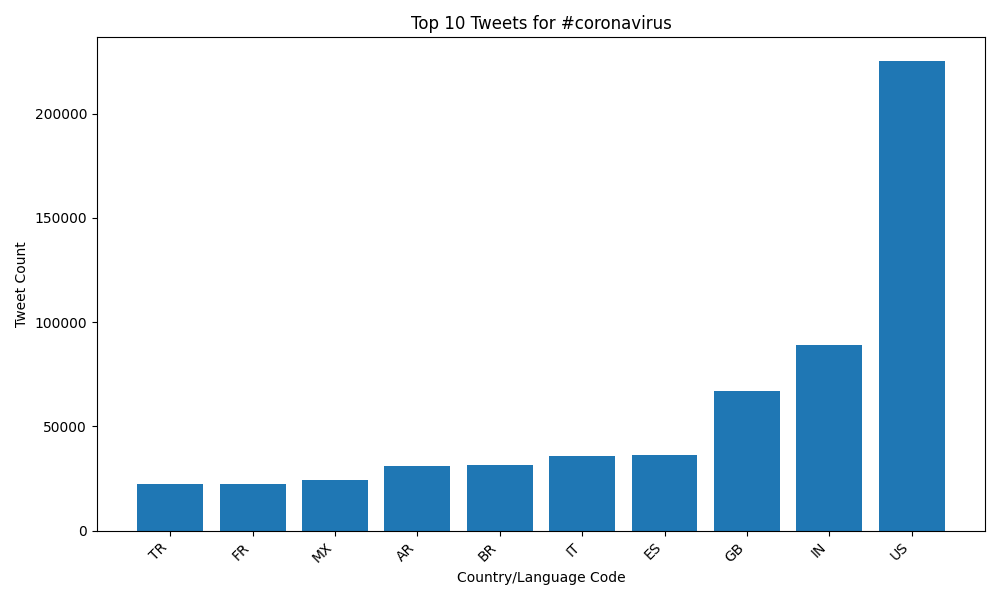
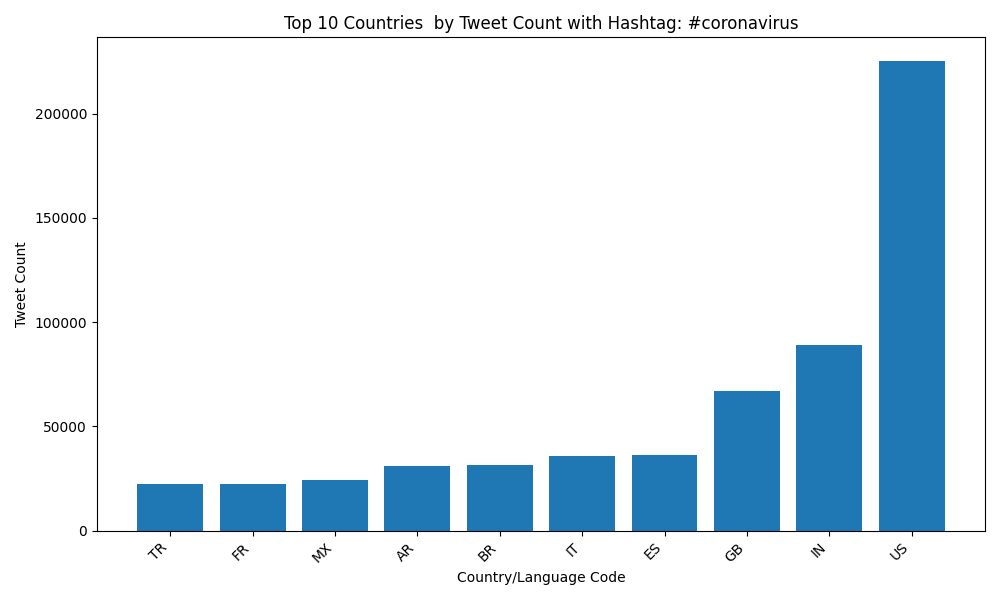
Complete task 3

Changed region(s): [[0.279, 0.03, 0.806, 0.06]]

diff --git a/src/visualize.py b/src/visualize.py
@@ -13,6 +13,12 @@ import os
 import json
 from collections import Counter,defaultdict
 import matplotlib.pyplot as plt
+import matplotlib.font_manager as fm
+
+# Use a font that supports Unicode characters including Korean
+plt.rcParams['font.family'] = 'DejaVu Sans'
+plt.rcParams['font.sans-serif'] = ['DejaVu Sans', 'Arial Unicode MS', 'Noto Sans CJK']
+plt.rcParams['axes.unicode_minus'] = False
 
 # open the input path
 with open(args.input_path) as f:
@@ -37,14 +43,20 @@ plt.figure(figsize=(10, 6))
 plt.bar(keys, values)
 plt.xlabel('Country/Language Code')
 plt.ylabel('Tweet Count')
-plt.title(f'Top 10 Tweets for {args.key}')
+file_type = 'Languages' if 'lang' in args.input_path else 'Countries'
+plt.title(f'Top 10 {file_type}  by Tweet Count with Hashtag: {args.key}')
 plt.xticks(rotation=45, ha='right')
 plt.tight_layout()
 
 # generate output filename
 # Extract the base filename and hashtag to create a descriptive name
 input_base = os.path.basename(args.input_path).replace('.', '_')
-key_safe = args.key.replace('#', '').replace('/', '_')
+if '코로나바이러스' in args.key:
+    key_safe = 'korean'
+elif 'coronavirus' in args.key:
+    key_safe = 'coronavirus'
+else:
+    key_safe = args.key.replace('#', '').replace('/', '_')
 output_filename = f'{input_base}_{key_safe}.png'
 
 # save the plot
